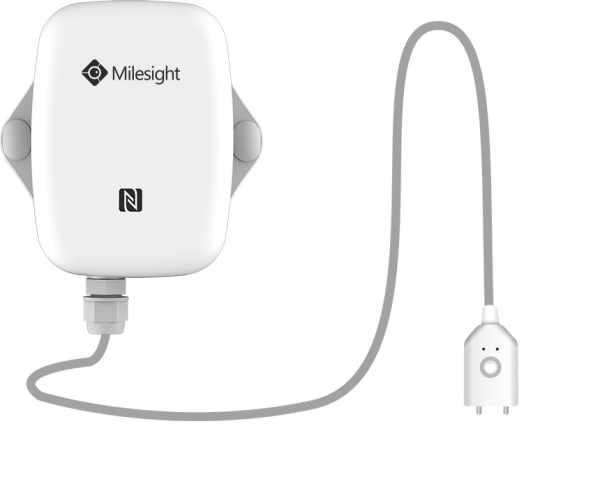
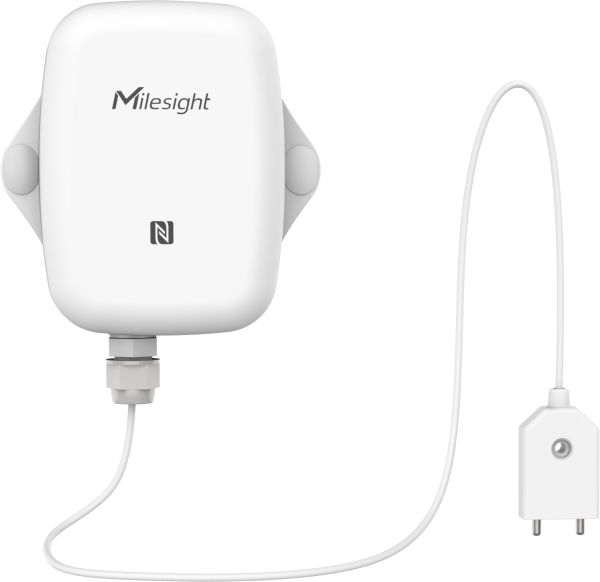
feat(em300-mld): membrane leak detection sensor

diff --git a/EM_Series/EM300_Series/EM300-SLD/EM300-SLD_Chirpstack.js b/EM_Series/EM300_Series/EM300-SLD/EM300-SLD_Chirpstack.js
@@ -3,7 +3,7 @@
  *
  * Copyright 2023 Milesight IoT
  *
- * @product EM300-SLD / EM300-ZLD
+ * @product EM300-SLD / EM300-ZLD / EM300-MLD
  */
 function Decode(fPort, bytes) {
     return milesight(bytes);

diff --git a/EM_Series/EM300_Series/EM300-SLD/EM300-SLD_TTN.js b/EM_Series/EM300_Series/EM300-SLD/EM300-SLD_TTN.js
@@ -3,7 +3,7 @@
  *
  * Copyright 2023 Milesight IoT
  *
- * @product EM300-SLD / EM300-ZLD
+ * @product EM300-SLD / EM300-ZLD / EM300-MLD
  */
 function Decoder(bytes, port) {
     return milesight(bytes);

diff --git a/EM_Series/EM300_Series/EM300-SLD/EM300-SLD_Chirpstack_v4.js b/EM_Series/EM300_Series/EM300-SLD/EM300-SLD_Chirpstack_v4.js
@@ -3,7 +3,7 @@
  *
  * Copyright 2023 Milesight IoT
  *
- * @product EM300-SLD / EM300-ZLD
+ * @product EM300-SLD / EM300-ZLD / EM300-MLD
  */
 function decodeUplink(input) {
     var bytes = input.bytes;

diff --git a/EM_Series/EM300_Series/EM300-SLD/README.md b/EM_Series/EM300_Series/EM300-SLD/README.md
@@ -1,12 +1,12 @@
-# Spot Leak Detection Sensor / Zone Leak Detection Sensor - Milesight IoT
+# Spot Leak Detection Sensor / Zone Leak Detection Sensor / Membrane Leak Detection Sensor - Milesight IoT
 
-The payload decoder function is applicable to EM300-SLD and EM300-ZLD.
+The payload decoder function is applicable to EM300-SLD, EM300-ZLD and EM300-MLD.
 
 For more detailed information, please visit [milesight official website](https://www.milesight-iot.com).
 
-|          EM300-SLD          |          EM300-ZLD          |
-| :-------------------------: | :-------------------------: |
-| ![EM300-SLD](EM300-SLD.png) | ![EM300-ZLD](EM300-ZLD.png) |
+|          EM300-SLD          |          EM300-ZLD          |         EM300-MLD          |
+| :-------------------------: | :-------------------------: |:-------------------------: |
+| ![EM300-SLD](EM300-SLD.png) | ![EM300-ZLD](EM300-ZLD.png) |![EM300-MLD](EM300-MLD.png) |
 
 ## Payload Definition
 
